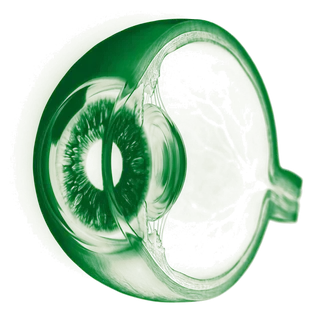
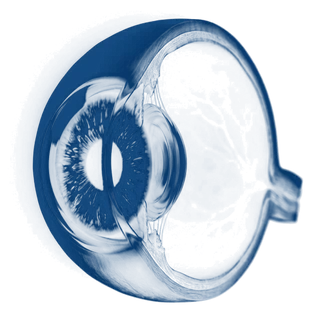
Deep blue organ art, pink ribbons and animations, remove remaining greens

Changed region(s): [[0.0938, 0.0312, 0.9688, 0.9688]]

diff --git a/css/styles.css b/css/styles.css
@@ -183,7 +183,7 @@ input, select, textarea {
     inset 3px 3px 7px rgba(0, 33, 30, 0.12),
     inset -2px -2px 5px rgba(255, 255, 255, 0.95);
 }
-input:hover, select:hover, textarea:hover { border-color: #b8c7a8; }
+input:hover, select:hover, textarea:hover { border-color: #F7C6E4; }
 input:focus, select:focus, textarea:focus {
   outline: none;
   border-color: var(--green);
@@ -241,7 +241,7 @@ button { font: inherit; cursor: pointer; }
   background: #00211E;
   color: #fff;
   box-shadow:
-    inset 0 -2px 0 rgba(0, 40, 16, 0.22),
+    inset 0 -2px 0 rgba(0, 20, 40, 0.22),
     0 6px 0 #000F0D,
     0 10px 16px rgba(0, 33, 30, 0.2);
 }
@@ -250,13 +250,13 @@ button { font: inherit; cursor: pointer; }
 .btn-primary:hover, .btn-send:hover {
   background: #00302B;
   box-shadow:
-    inset 0 -2px 0 rgba(0, 40, 16, 0.22),
+    inset 0 -2px 0 rgba(0, 20, 40, 0.22),
     0 7px 0 #000F0D,
     0 14px 18px rgba(0, 33, 30, 0.24);
 }
 .btn-primary:active, .btn-send:active {
   box-shadow:
-    inset 0 3px 6px rgba(0, 30, 12, 0.35),
+    inset 0 3px 6px rgba(0, 20, 40, 0.35),
     0 1px 0 #000F0D;
 }
 .btn-primary:disabled, .btn-send:disabled {
@@ -270,26 +270,26 @@ button { font: inherit; cursor: pointer; }
   padding: 8px 16px;
   box-shadow:
     inset 0 -2px 0 rgba(0, 33, 30, 0.08),
-    0 4px 0 #a9be98,
+    0 4px 0 #F2A6D6,
     0 8px 14px rgba(0, 33, 30, 0.12);
 }
 .btn-ghost:hover {
-  background: #d1e0c3;
+  background: #FFD9EE;
   box-shadow:
     inset 0 -2px 0 rgba(0, 33, 30, 0.08),
-    0 5px 0 #9bb389,
+    0 5px 0 #F2A6D6,
     0 10px 16px rgba(0, 33, 30, 0.14);
 }
 .btn-ghost:active {
   box-shadow:
     inset 0 3px 6px rgba(0, 33, 30, 0.18),
-    0 1px 0 #a9be98;
+    0 1px 0 #F2A6D6;
 }
 /* Click burst particles (js/clickfx.js). */
 .burst { position: fixed; left: 0; top: 0; width: 0; height: 0; pointer-events: none; z-index: 60; }
-.burst i { position: absolute; left: -5px; top: -5px; width: 10px; height: 10px; border-radius: 50%; background: #00211E; box-shadow: 0 0 8px rgba(251, 3, 158, 0.55); }
-.burst i.is-sage { background: #FD91CC; box-shadow: 0 0 8px rgba(156, 196, 138, 0.7); }
-.burst i.is-ring { width: 16px; height: 16px; left: -8px; top: -8px; background: transparent; border: 2px solid #00211E; box-shadow: none; }
+.burst i { position: absolute; left: -5px; top: -5px; width: 10px; height: 10px; border-radius: 50%; background: #FB039E; box-shadow: 0 0 8px rgba(251, 3, 158, 0.55); }
+.burst i.is-sage { background: #FD91CC; box-shadow: 0 0 8px rgba(253, 145, 204, 0.7); }
+.burst i.is-ring { width: 16px; height: 16px; left: -8px; top: -8px; background: transparent; border: 2px solid #FB039E; box-shadow: none; }
 .burst i.is-ring.is-sage { border-color: #FD91CC; }
 .burst i.is-spark { width: 3px; height: 12px; left: -1.5px; top: -6px; border-radius: 2px; background: #00302B; }
 .spinner { display: none; width: 18px; height: 18px; border: 2.5px solid rgba(255, 255, 255, 0.4); border-top-color: #fff; border-radius: 50%; animation: spin 700ms linear infinite; }
@@ -338,7 +338,7 @@ button { font: inherit; cursor: pointer; }
 .status-error { color: var(--error); font-weight: 600; }
 
 /* Footer */
-.footer { background: var(--green-ink); color: #d7e4d2; padding: 28px 0; font-size: 0.9rem; }
+.footer { background: var(--green-ink); color: #FFE0F0; padding: 28px 0; font-size: 0.9rem; }
 .footer p { margin: 0 0 6px; }
 .footer b { color: #fff; }
 

diff --git a/js/ribbon.js b/js/ribbon.js
@@ -9,7 +9,7 @@
   const still = window.matchMedia('(prefers-reduced-motion: reduce)');
   const landing = document.body.classList.contains('page-landing');
 
-  // Three bands: wide sage, mid green, thin deep green thread.
+  // Three bands: wide blush, mid pink, thin pink thread.
   const BANDS = [
     { width: 120, color: 'url(#rb-sage)', opacity: 0.55, amp: 0.16, freq: 1.1, speed: 0.18, lift: 0.0 },
     { width: 46, color: 'url(#rb-green)', opacity: 0.38, amp: 0.12, freq: 1.6, speed: 0.26, lift: 0.05 },
@@ -26,8 +26,8 @@
     '<defs>' +
     '<linearGradient id="rb-sage" x1="0" x2="1" y1="0" y2="0"><stop offset="0" stop-color="#FD91CC" stop-opacity="0"/>' +
     '<stop offset=".3" stop-color="#FD91CC"/><stop offset=".7" stop-color="#FFB8DE"/><stop offset="1" stop-color="#FD91CC" stop-opacity="0"/></linearGradient>' +
-    '<linearGradient id="rb-green" x1="0" x2="1" y1="0" y2="0"><stop offset="0" stop-color="#00211E" stop-opacity="0"/>' +
-    '<stop offset=".25" stop-color="#00211E"/><stop offset=".75" stop-color="#FB039E"/><stop offset="1" stop-color="#00211E" stop-opacity="0"/></linearGradient>' +
+    '<linearGradient id="rb-green" x1="0" x2="1" y1="0" y2="0"><stop offset="0" stop-color="#FB039E" stop-opacity="0"/>' +
+    '<stop offset=".25" stop-color="#FB039E"/><stop offset=".75" stop-color="#FD91CC"/><stop offset="1" stop-color="#FB039E" stop-opacity="0"/></linearGradient>' +
     '</defs>';
   const paths = BANDS.map((band) => {
     const p = document.createElementNS(NS, 'path');
@@ -62,7 +62,7 @@
     { group: 0, width: 64, color: 'url(#rb-sage)', opacity: 0.5, offset: -22, ripple: 0.012 },
     { group: 0, width: 26, color: 'url(#rb-green)', opacity: 0.4, offset: 0, ripple: 0.014 },
     { group: 0, width: 5, color: '#FB039E', opacity: 0.5, offset: 22, ripple: 0.018 },
-    { group: 0, width: 2, color: '#00211E', opacity: 0.45, offset: 44, ripple: 0.024 },
+    { group: 0, width: 2, color: '#FB039E', opacity: 0.45, offset: 44, ripple: 0.024 },
     { group: 1, width: 38, color: 'url(#rb-sage)', opacity: 0.42, offset: -14, ripple: 0.016 },
     { group: 1, width: 12, color: 'url(#rb-green)', opacity: 0.35, offset: 8, ripple: 0.02 },
     { group: 1, width: 2, color: '#FB039E', opacity: 0.4, offset: 26, ripple: 0.028 },

diff --git a/js/motion.js b/js/motion.js
@@ -155,7 +155,7 @@
   }
 
   // Landing section headings: letters rise on a spring when the heading scrolls into view, the small
-  // kicker above settles from wide letter spacing, then a green sheen runs once through the words.
+  // kicker above settles from wide letter spacing, then a pink sheen runs once through the words.
   function sectionTitles() {
     const heads = Array.from(document.querySelectorAll('main section:not(.hero) h2'));
     if (!heads.length || !('IntersectionObserver' in window)) return;
@@ -189,7 +189,7 @@
         delay: stagger(16),
       }, kicker ? '-=520' : 0);
       tl.add(split.words, {
-        color: ['#00211E', '#00211E', '#00211E'],
+        color: ['#00211E', '#FB039E', '#00211E'],
         duration: 900,
         ease: 'inOut(2)',
         delay: stagger(70),
@@ -211,10 +211,10 @@
     onComplete: wave,
   });
 
-  // 2. A slow green wave runs through the title every few seconds.
+  // 2. A slow pink wave runs through the title every few seconds.
   function wave() {
     animate(split.chars, {
-      color: ['#00211E', '#00211E', '#00211E'],
+      color: ['#00211E', '#FB039E', '#00211E'],
       duration: 900,
       ease: 'inOut(2)',
       delay: stagger(28),
@@ -251,7 +251,7 @@
     }
     tl.then(() => {
       animate(words, {
-        color: ['#00211E', '#00211E', '#00211E'],
+        color: ['#00211E', '#FB039E', '#00211E'],
         duration: 1100,
         ease: 'inOut(2)',
         delay: stagger(60),

diff --git a/index.html b/index.html
@@ -18,8 +18,8 @@
   <link rel="preconnect" href="https://fonts.googleapis.com" />
   <link rel="preconnect" href="https://fonts.gstatic.com" crossorigin />
   <link href="https://fonts.googleapis.com/css2?family=Albert+Sans:wght@400;500;600;700&family=Archivo:wdth,wght@62..125,500..900&display=swap" rel="stylesheet" />
-  <link rel="stylesheet" href="css/styles.css?v=21" />
-  <link rel="stylesheet" href="css/landing.css?v=5" />
+  <link rel="stylesheet" href="css/styles.css?v=24" />
+  <link rel="stylesheet" href="css/landing.css?v=6" />
   <link rel="preload" as="image" href="assets/art/heart.webp" />
   <script src="js/config.js?v=9"></script>
 </head>
@@ -204,9 +204,9 @@ Will not proceed with BD yet.</pre>
 
   <script src="js/vendor/anime.umd.min.js?v=4.5.0"></script>
   <script src="js/common.js?v=3"></script>
-  <script src="js/ribbon.js?v=7"></script>
-  <script src="js/motion.js?v=8"></script>
-  <script src="js/clickfx.js?v=3"></script>
+  <script src="js/ribbon.js?v=8"></script>
+  <script src="js/motion.js?v=9"></script>
+  <script src="js/clickfx.js?v=4"></script>
   <script src="js/landing.js?v=4"></script>
 </body>
 </html>

diff --git a/read.html b/read.html
@@ -18,7 +18,7 @@
   <link rel="preconnect" href="https://fonts.googleapis.com" />
   <link rel="preconnect" href="https://fonts.gstatic.com" crossorigin />
   <link href="https://fonts.googleapis.com/css2?family=Albert+Sans:wght@400;500;600;700&family=Archivo:wdth,wght@62..125,500..900&display=swap" rel="stylesheet" />
-  <link rel="stylesheet" href="css/styles.css?v=21" />
+  <link rel="stylesheet" href="css/styles.css?v=24" />
   <link rel="preload" as="image" href="assets/art/heart.webp" />
   <script src="js/config.js?v=9"></script>
   <script>if (!window.SHARE_CONFIG.ENDPOINT) document.documentElement.classList.add('is-demo');</script>
@@ -142,9 +142,9 @@
 
   <script src="js/vendor/anime.umd.min.js?v=4.5.0"></script>
   <script src="js/common.js?v=3"></script>
-  <script src="js/ribbon.js?v=7"></script>
-  <script src="js/motion.js?v=8"></script>
-  <script src="js/clickfx.js?v=3"></script>
+  <script src="js/ribbon.js?v=8"></script>
+  <script src="js/motion.js?v=9"></script>
+  <script src="js/clickfx.js?v=4"></script>
   <script src="js/reader.js?v=2"></script>
   <script src="js/reader-page.js?v=8"></script>
 </body>

diff --git a/update.html b/update.html
@@ -11,7 +11,7 @@
   <link rel="preconnect" href="https://fonts.googleapis.com" />
   <link rel="preconnect" href="https://fonts.gstatic.com" crossorigin />
   <link href="https://fonts.googleapis.com/css2?family=Albert+Sans:wght@400;500;600;700&family=Archivo:wdth,wght@62..125,500..900&display=swap" rel="stylesheet" />
-  <link rel="stylesheet" href="css/styles.css?v=21" />
+  <link rel="stylesheet" href="css/styles.css?v=24" />
   <link rel="preload" as="image" href="assets/art/lungs.webp" />
   <script src="js/config.js?v=9"></script>
   <script>if (!window.SHARE_CONFIG.ENDPOINT) document.documentElement.classList.add('is-demo');</script>
@@ -170,9 +170,9 @@
 
   <script src="js/vendor/anime.umd.min.js?v=4.5.0"></script>
   <script src="js/common.js?v=3"></script>
-  <script src="js/ribbon.js?v=7"></script>
-  <script src="js/motion.js?v=8"></script>
-  <script src="js/clickfx.js?v=3"></script>
+  <script src="js/ribbon.js?v=8"></script>
+  <script src="js/motion.js?v=9"></script>
+  <script src="js/clickfx.js?v=4"></script>
   <script src="js/reader.js?v=2"></script>
   <script src="js/update-page.js?v=2"></script>
 </body>

diff --git a/form.html b/form.html
@@ -11,7 +11,7 @@
   <link rel="preconnect" href="https://fonts.googleapis.com" />
   <link rel="preconnect" href="https://fonts.gstatic.com" crossorigin />
   <link href="https://fonts.googleapis.com/css2?family=Albert+Sans:wght@400;500;600;700&family=Archivo:wdth,wght@62..125,500..900&display=swap" rel="stylesheet" />
-  <link rel="stylesheet" href="css/styles.css?v=21" />
+  <link rel="stylesheet" href="css/styles.css?v=24" />
   <link rel="preload" as="image" href="assets/art/kidneys.webp" />
   <script src="js/config.js?v=9"></script>
   <script>if (!window.SHARE_CONFIG.ENDPOINT) document.documentElement.classList.add('is-demo');</script>
@@ -240,9 +240,9 @@
 
   <script src="js/vendor/anime.umd.min.js?v=4.5.0"></script>
   <script src="js/common.js?v=3"></script>
-  <script src="js/ribbon.js?v=7"></script>
-  <script src="js/motion.js?v=8"></script>
-  <script src="js/clickfx.js?v=3"></script>
+  <script src="js/ribbon.js?v=8"></script>
+  <script src="js/motion.js?v=9"></script>
+  <script src="js/clickfx.js?v=4"></script>
   <script src="js/form-page.js?v=2"></script>
 </body>
 </html>

diff --git a/status.html b/status.html
@@ -11,7 +11,7 @@
   <link rel="preconnect" href="https://fonts.googleapis.com" />
   <link rel="preconnect" href="https://fonts.gstatic.com" crossorigin />
   <link href="https://fonts.googleapis.com/css2?family=Albert+Sans:wght@400;500;600;700&family=Archivo:wdth,wght@62..125,500..900&display=swap" rel="stylesheet" />
-  <link rel="stylesheet" href="css/styles.css?v=21" />
+  <link rel="stylesheet" href="css/styles.css?v=24" />
   <link rel="preload" as="image" href="assets/art/liver.webp" />
   <script src="js/config.js?v=9"></script>
   <script>if (!window.SHARE_CONFIG.ENDPOINT) document.documentElement.classList.add('is-demo');</script>
@@ -88,9 +88,9 @@
 
   <script src="js/vendor/anime.umd.min.js?v=4.5.0"></script>
   <script src="js/common.js?v=3"></script>
-  <script src="js/ribbon.js?v=7"></script>
-  <script src="js/motion.js?v=8"></script>
-  <script src="js/clickfx.js?v=3"></script>
+  <script src="js/ribbon.js?v=8"></script>
+  <script src="js/motion.js?v=9"></script>
+  <script src="js/clickfx.js?v=4"></script>
   <script src="js/status-page.js?v=2"></script>
 </body>
 </html>

diff --git a/css/landing.css b/css/landing.css
@@ -54,7 +54,7 @@
   grid-template-columns: repeat(3, minmax(0, 1fr));
   grid-template-areas: ". eyes ." "lungs heart skin" "liver pancreas bones" "kidneys intestine ."; }
 .body-map::before { content: ""; position: absolute; inset: 0 18% 0; border-radius: 120px 120px 60px 60px; z-index: -1;
-  background: radial-gradient(60% 40% at 50% 30%, var(--sage-soft), transparent 70%), linear-gradient(180deg, #FFF5FA, #e8efdf);
+  background: radial-gradient(60% 40% at 50% 30%, var(--sage-soft), transparent 70%), linear-gradient(180deg, #FFF5FA, #FFE9F5);
   box-shadow: inset 4px 4px 14px rgba(0, 33, 30, 0.08), inset -4px -4px 12px rgba(255, 255, 255, 0.9); }
 .body-map li { display: flex; flex-direction: column; align-items: center; text-align: center; padding: 10px 8px 12px; border-radius: 20px;
   background: rgba(255, 255, 255, 0.86); box-shadow: 5px 6px 14px rgba(0, 33, 30, 0.1), -4px -4px 10px rgba(255, 255, 255, 0.9);

diff --git a/js/clickfx.js b/js/clickfx.js
@@ -53,7 +53,7 @@
     const count = 32;
     for (let i = 0; i < count; i++) {
       const dot = document.createElement('i');
-      // Mix of green dots, sage dots and small sparks.
+      // Mix of pink dots, blush dots and small sparks.
       dot.className = i % 4 === 0 ? 'is-sage' : i % 5 === 0 ? 'is-spark' : '';
       host.appendChild(dot);
       dots.push(dot);

diff --git a/UX_LAWS_AUDIT.md b/UX_LAWS_AUDIT.md
@@ -280,3 +280,10 @@ Checks:
 - Primary buttons are deep blue with white text (contrast well above 4.5:1). Light buttons are blush pink with deep blue text.
 - The organ artwork (PNG images) keeps its green. It is a picture, not a colour token. Recolouring it needs a separate decision.
 - Checks: hero renders in the new palette, primary button computes to rgb(0, 33, 30), no horizontal overflow at 1440 px.
+
+## Change on 2026-11-09: all green replaced
+
+- Organ art (heart, lungs, liver, kidneys, pancreas, corneas, skin, bones) and the ribbon background images are recoloured to a deep blue ramp from #001226 to #26689F. Alpha is kept, so the cut-out edges stay as they were.
+- Ribbons, glows, dots, sparks, underlines and the colour wave in the title use bubblegum pink #FB039E or blush peach #FD91CC.
+- Shadows and lips use deep blue or pink tints. No green colour remains in the CSS or JS (checked by scan).
+- Chrome caches the old images under the same file names. A hard reload (Ctrl + Shift + R) shows the blue organs.
